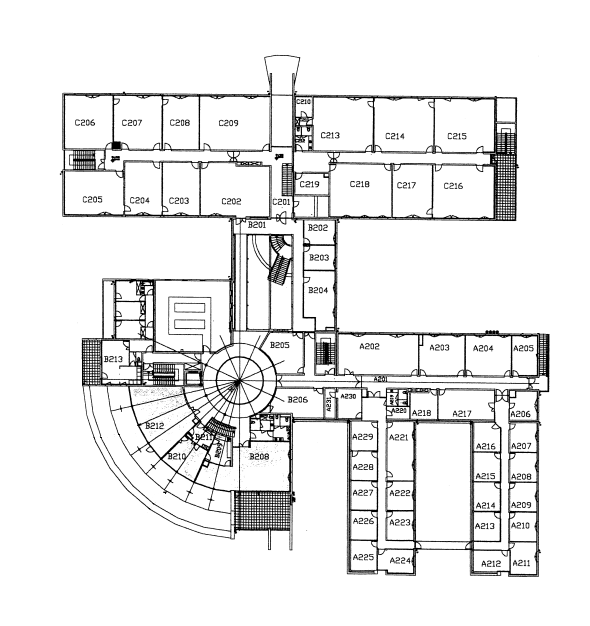
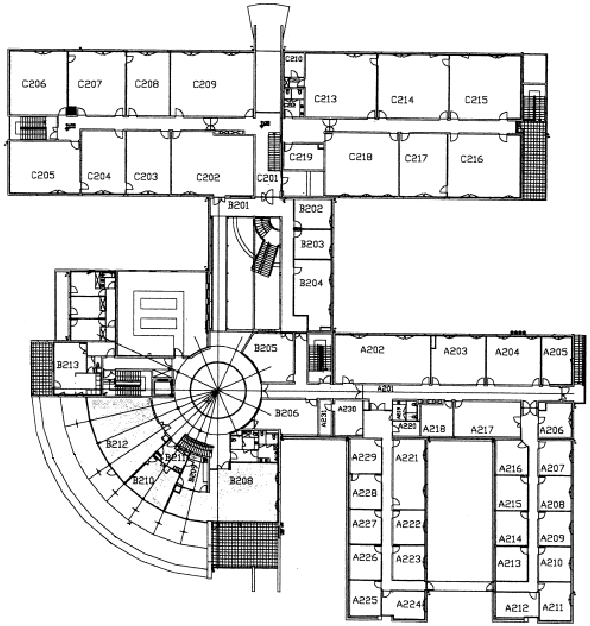
retrait transparant plan etage 2 et reconfiguration de la taille de la division correspondante

diff --git a/Tablette/html/pages/etage_2/etage_2.css b/Tablette/html/pages/etage_2/etage_2.css
@@ -12,8 +12,8 @@
 /* -- Définition du plan comme fond de la division plan -- */
 .plan{
     background-image: url("../images/plan_etage_2.png");
-    width : 600px;
-    height : 600px;
+    width : 590px;
+    height : 627px;
 }
 
 /** --------------------------------------------------------------------------- **/
